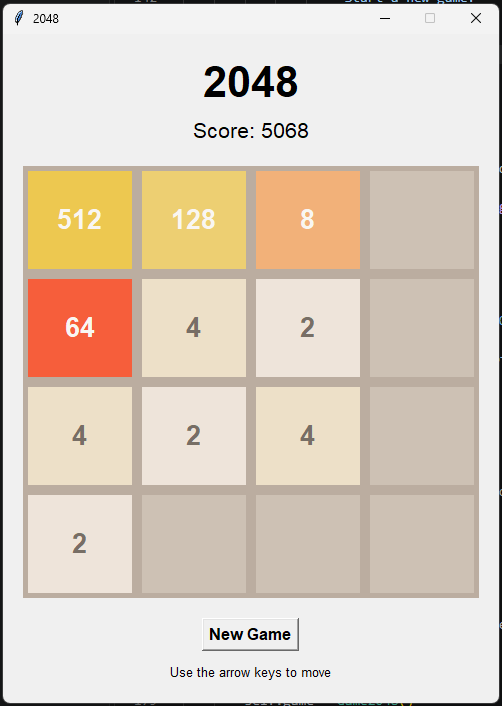
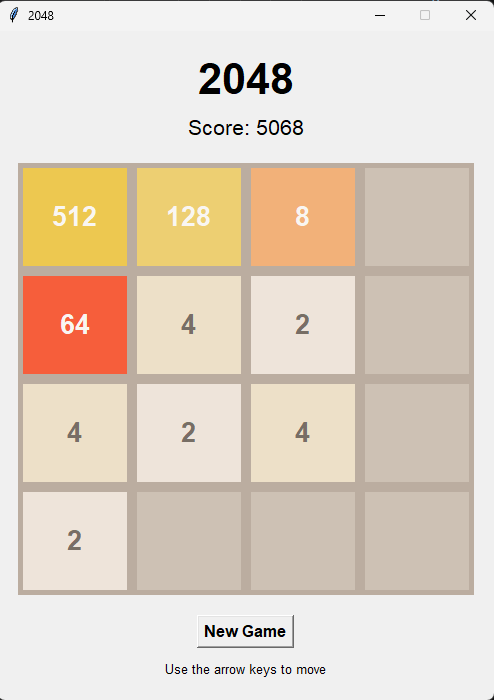
Fix game-over detection

diff --git a/main.py b/main.py
@@ -134,16 +134,18 @@ class GameGUI:
                 if play_again:
                     self.new_game()
 
-            elif self.game.game_over():
-                play_again = messagebox.askyesno(
-                    "Game Over",
-                    f"No more moves available.\n\n"
-                    f"Final Score: {self.game.score}\n\n"
-                    "Start a new game?"
-                )
+                return
 
-                if play_again:
-                    self.new_game()
+        if self.game.game_over():
+            play_again = messagebox.askyesno(
+                "Game Over",
+                f"No more moves available.\n\n"
+                f"Final Score: {self.game.score}\n\n"
+                "Start a new game?"
+            )
+
+            if play_again:
+                self.new_game()
 
     def update_display(self):
         for row in range(4):
